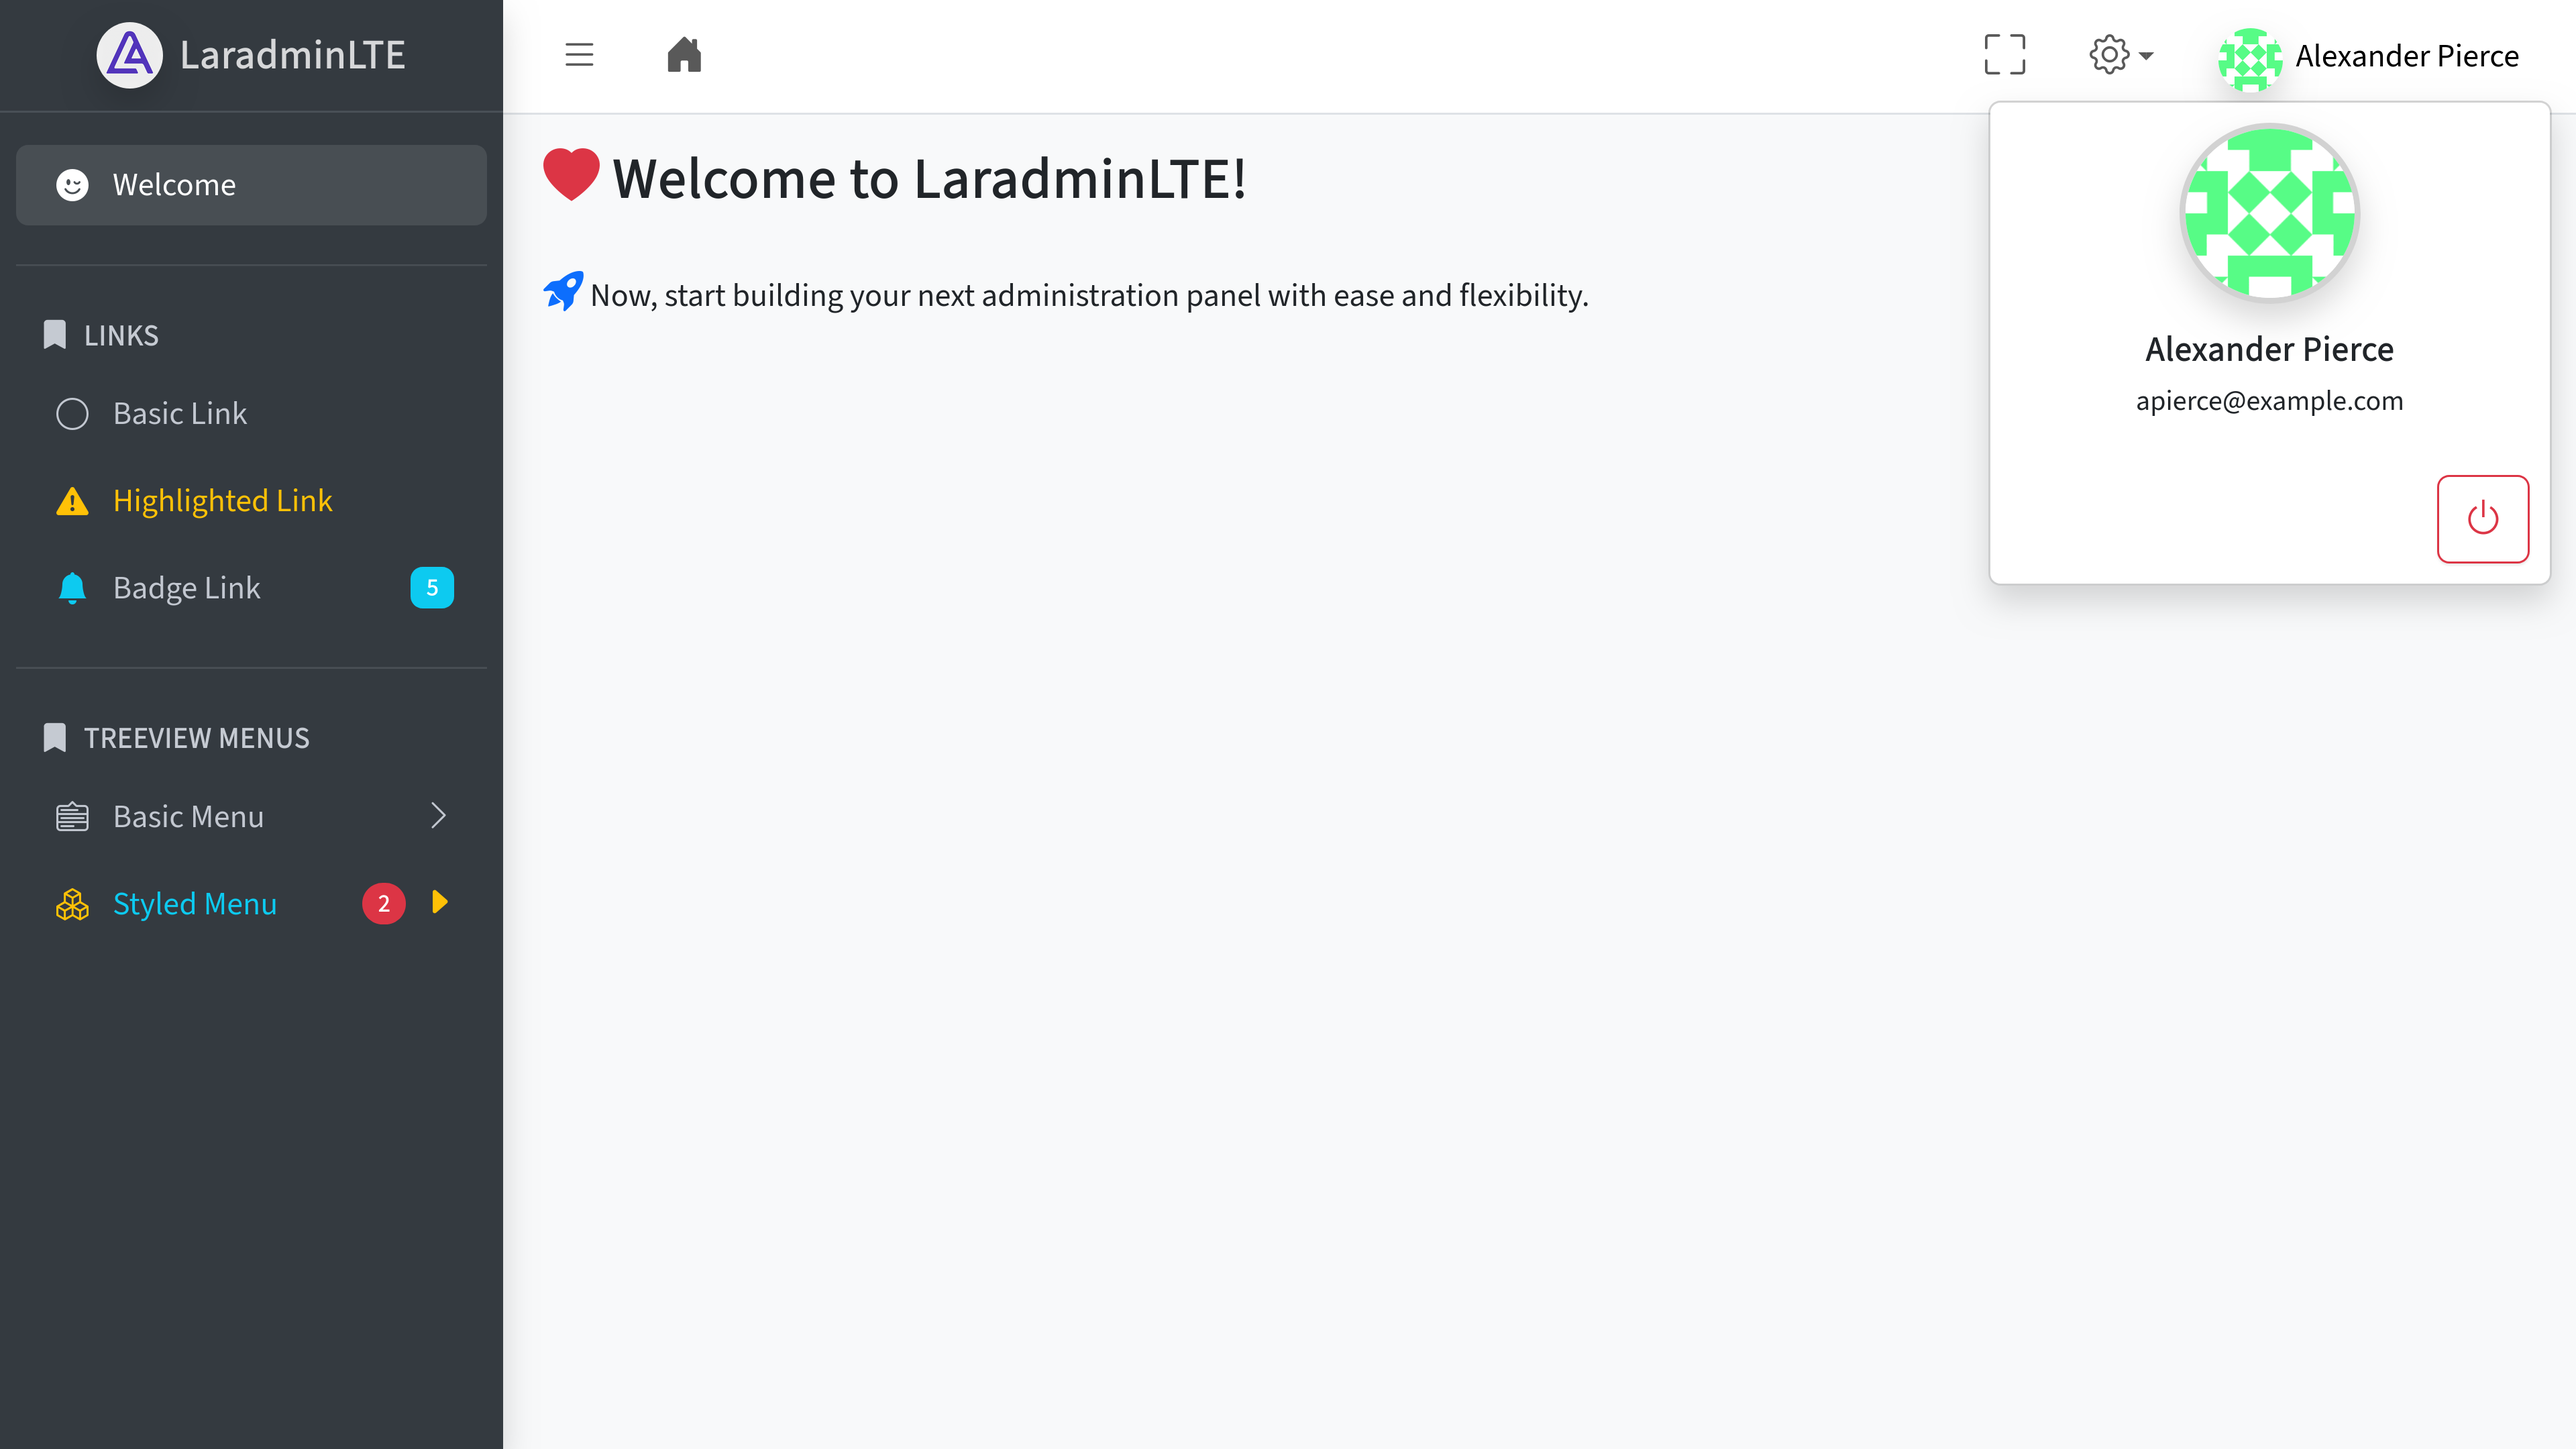
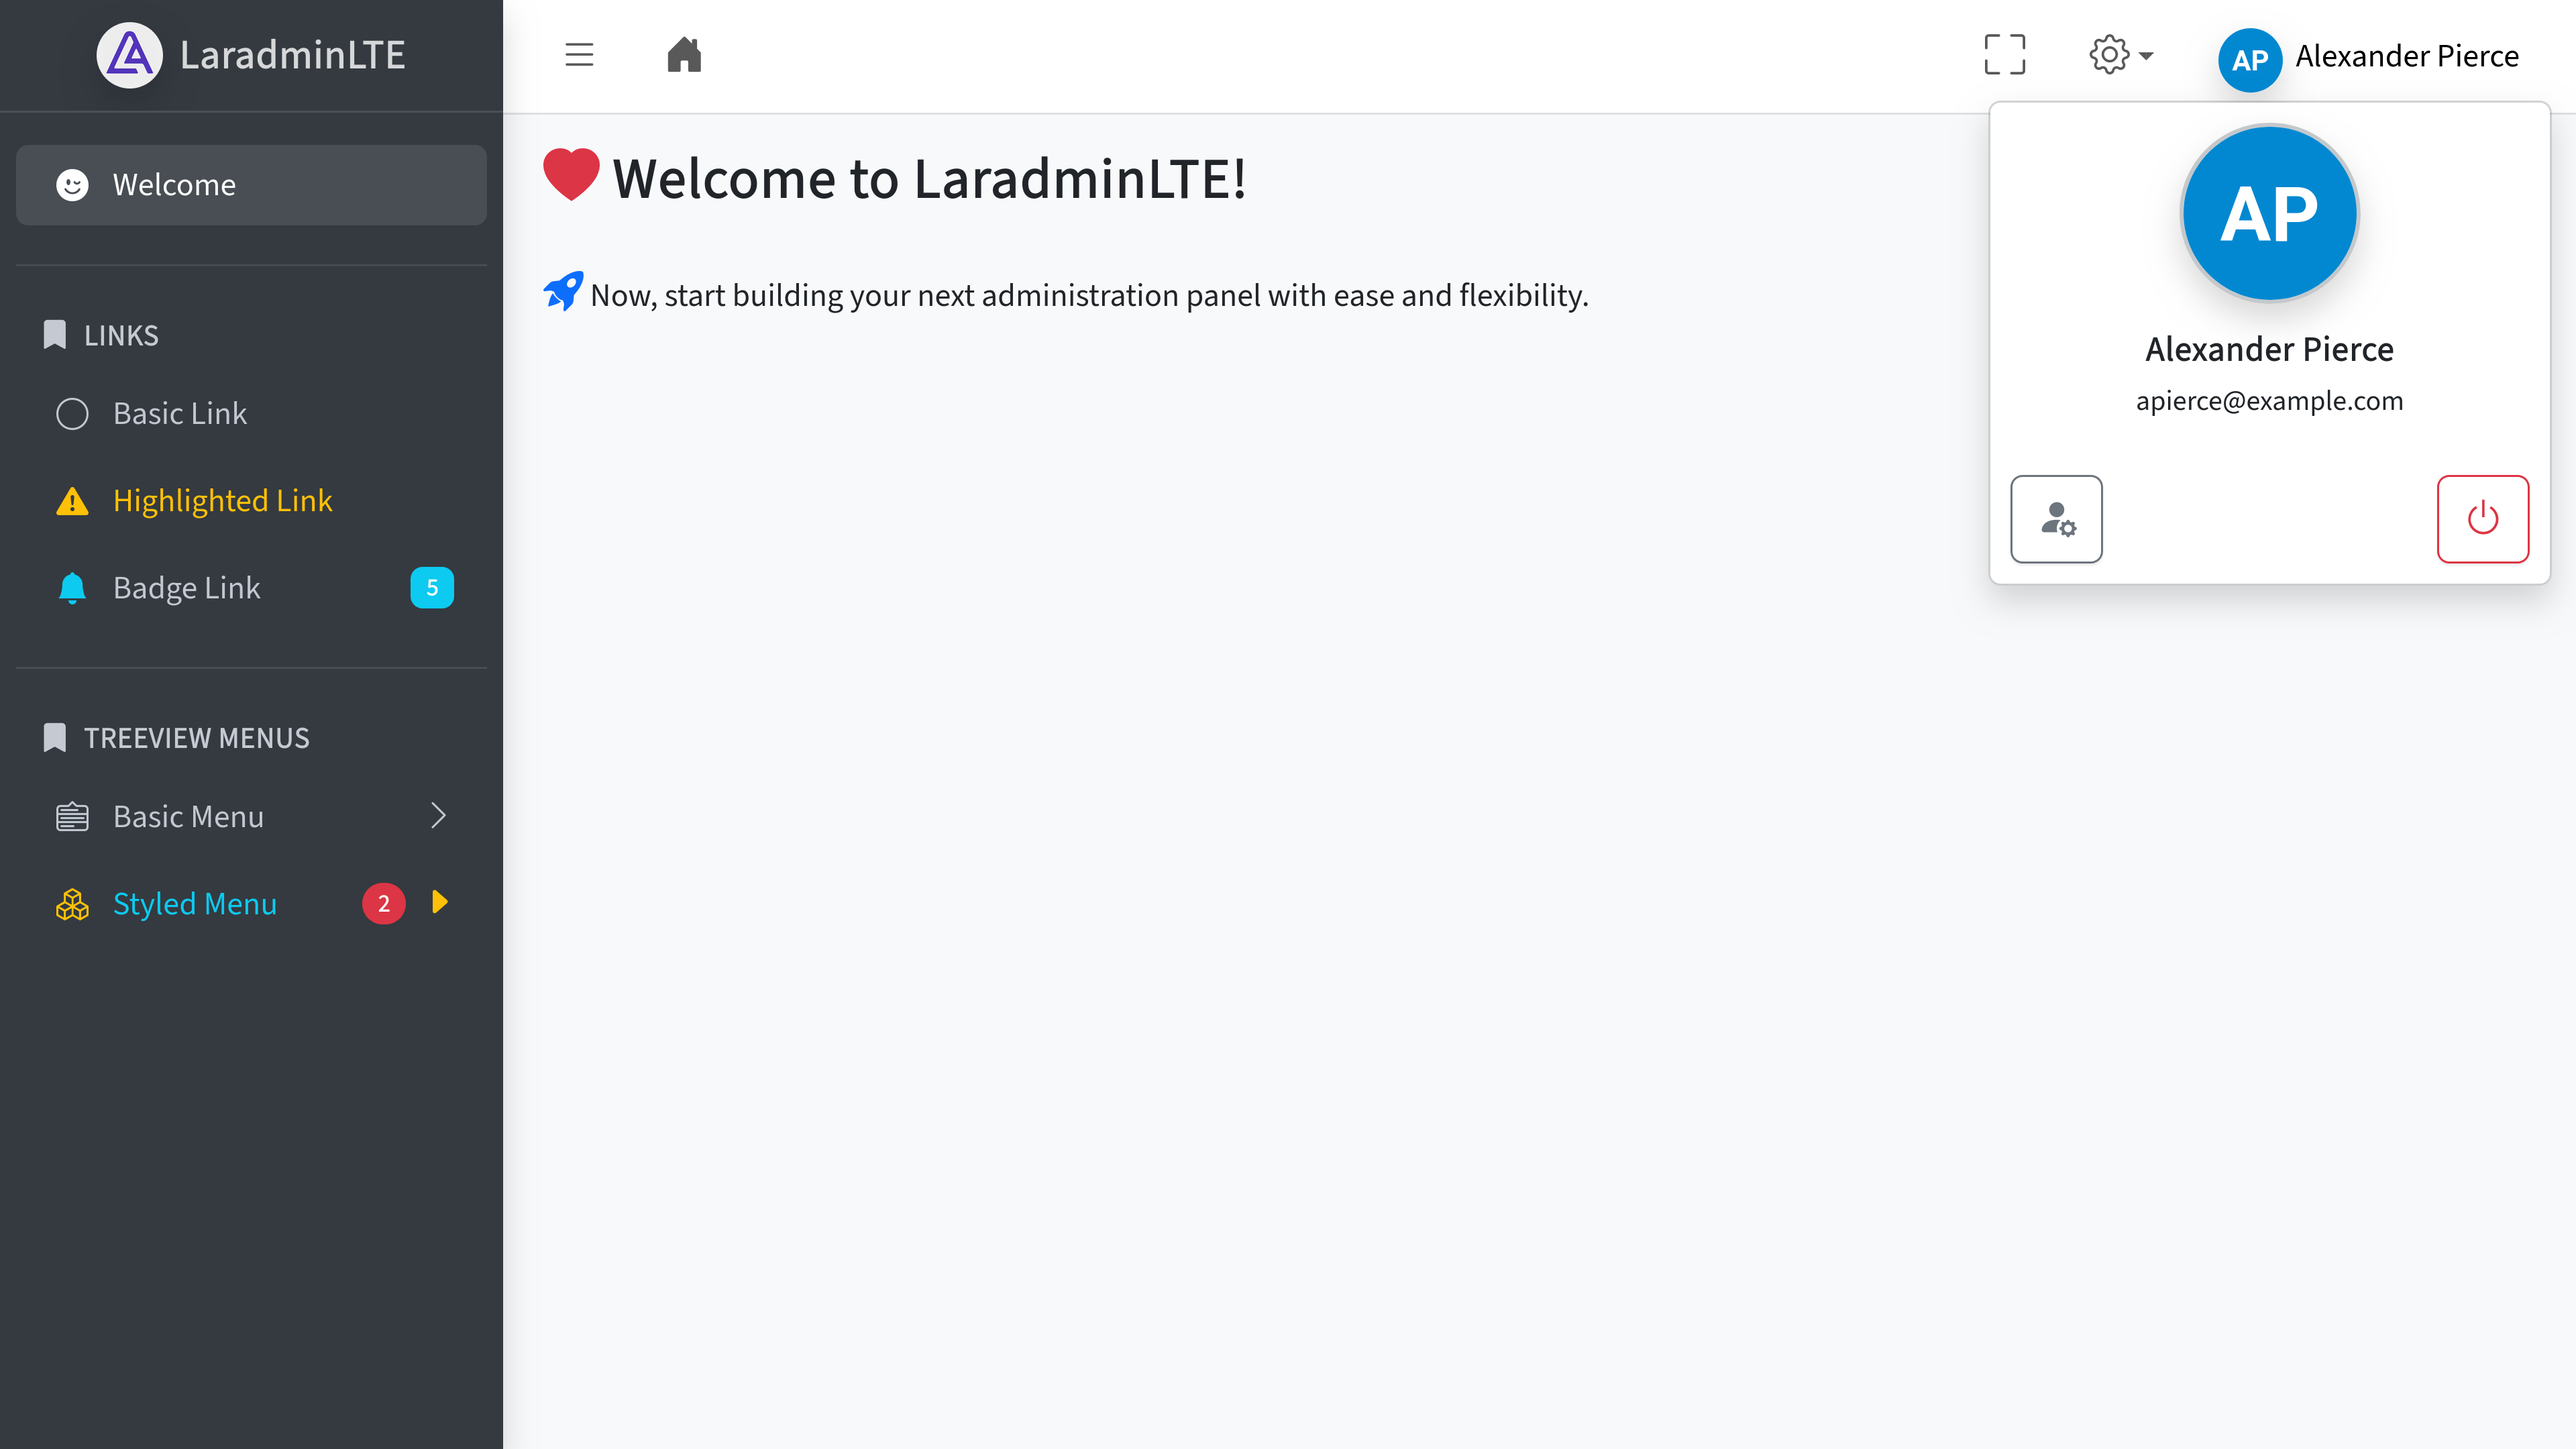
[docs]: Update docs to match new profile images feature

Changed region(s): [[0.8438, 0.0931, 0.9375, 0.2171], [0.8438, 0.0, 0.9062, 0.062], [0.7812, 0.3412, 0.8125, 0.3722]]

diff --git a/docs/sections/config/auth.md b/docs/sections/config/auth.md
@@ -35,41 +35,6 @@ Once you have done this, you can access the login page by navigating to `/login`
 
 The authentication scaffolding offer additional features that can be enabled or disabled as needed. These features include *registration*, *password reset* and *email verification*. Also, the appearance of the authentication views can be customized by modifying the configuration file. All of these settings are explained in the next sections.
 
-## How to Customize the User Image
-
-By default, *LaradminLTE* uses [Gravatar](https://www.gravatar.com/) to display the user images in the navbar user menu based on their email addresses. However, you can customize the user image by defining a custom attribute in your `User` model.
-
-If you want to use your own user images (stored locally, on S3, or generated dynamically), you can override the default behavior by implementing the `ladmin_image` [accessor](https://laravel.com/docs/eloquent-mutators#defining-an-accessor) on your `User` model. This accessor should return the `URL` of the user image to be displayed.
-
-For example (and reference), assuming you store images locally in the `public/images/users` folder and you use the user `id` to name the image files, then you can define the `ladmin_image` accessor as follows:
-
-```php
-<?php
-
-namespace App\Models;
-
-use Illuminate\Database\Eloquent\Casts\Attribute;
-use Illuminate\Foundation\Auth\User as Authenticatable;
-use Illuminate\Support\Facades\Storage;
-
-class User extends Authenticatable
-{
-    /**
-     * Get the user's image URL for LaradminLTE.
-     */
-    protected function ladminImage(): Attribute
-    {
-        return Attribute::make(
-            get: fn () => Storage::url("images/users/{$this->id}.jpg"),
-        );
-    }
-}
-```
-
-::: warning WARNING: Just an Example
-The previous example is provided solely to illustrate a potential use case. It is not production-ready code and may require additional logic, validation, error handling, and security considerations before use in a production environment. Please, just use it as a reference of what can be done.
-:::
-
 ## Main Settings
 
 The main settings for the authentication scaffolding are as follows:
@@ -188,6 +153,9 @@ The authentication scaffolding includes several features that can be enabled or 
     'registration' => true,
     'password_reset' => true,
     'email_verification' => false,
+    'profile_image' => true,
+    'update_profile_information' => true,
+    'update_password' => true,
 ]
 ```
 :::
@@ -250,6 +218,68 @@ Route::middleware(['auth', 'verified'])->group(function () {
 ```
 :::
 
+### *profile_image*:
+
+- Type: `boolean`
+- Example: `'profile_image' => true`
+
+This setting enables or disables the profile image management feature on the user profile page. When set to `true`, users will be able to upload and display a profile image. When set to `false`, the profile image functionality will be disabled. This feature requires a few steps to be fully functional:
+
+#### 1. Add `profile_image_path` Column to Users Table
+
+Use the provided package migration to add the `profile_image_path` column to your `users` table. You can publish the migration file by running the following command:
+
+```bash
+php artisan vendor:publish --provider="DFSmania\LaradminLte\LaradminLteServiceProvider" --tag="migrations"
+```
+
+Then, run the migrations to update your database schema:
+
+```bash
+php artisan migrate
+```
+
+#### 2. Use `DFSmania\LaradminLte\Models\Concerns\HasProfileImage` Trait
+
+Include the `HasProfileImage` trait in your `User` model to add the necessary methods and relationships for handling profile images. For example:
+
+```php
+<?php
+namespace App\Models;
+
+use DFSmania\LaradminLte\Models\Concerns\HasProfileImage;
+use Illuminate\Foundation\Auth\User as Authenticatable;
+
+class User extends Authenticatable
+{
+    use HasProfileImage;
+
+    // ...
+}
+```
+
+#### 3. Setup Your Laravel Filesystem
+
+This feature requires you to have the [Laravel Filesystem](https://laravel.com/docs/filesystem) properly configured in your application to handle file uploads. By default, the profile images are stored in the `public` disk, which is typically linked to the `storage/app/public` directory. Make sure to run `php artisan storage:link` to create a symbolic link from `public/storage` to `storage/app/public` if you haven't done so already.
+
+#### 4. Customize Profile Image Settings (Optional)
+
+You can customize the profile image settings in the `config/ladmin/auth.php` file under the `profile_images` section. This includes options such as the *storage disk*, *maximum file size*, *allowed file types*, and *default image mode* (i.e., the default image to use when a user has not uploaded a profile image). The default image uses external services like [UI Avatars](https://ui-avatars.com/) or [Gravatar](https://gravatar.com/) to generate placeholder images based on the user's name initials or the user's email. Details about these settings can be found in the [Profile Images Configuration](#profile-images) section.
+
+### *update_profile_information*:
+
+- Type: `boolean`
+- Example: `'update_profile_information' => true`
+
+This setting enables or disables the ability for users to update their profile information on the user profile page. When set to `true`, users will be able to edit and save changes to their profile details, such as name and email address. When set to `false`, the profile information update functionality will be disabled.
+
+### *update_password*:
+
+- Type: `boolean`
+- Example: `'update_password' => true`
+
+This setting enables or disables the ability for users to update their passwords on the user profile page. When set to `true`, users will be able to change their passwords. When set to `false`, the password update functionality will be disabled.
+
 ### Password Confirmation
 
 The authentication scaffolding also includes password confirmation functionality, which is used to verify a user's identity before allowing access to sensitive actions or areas of the application. This feature is enabled by default and does not require any additional configuration.
@@ -280,6 +310,65 @@ Route::middleware(['auth'])->group(function () {
     })->middleware('password.confirm');
 });
 ```
+
+## Profile Images
+
+The `profile_images` configuration section allows you to customize the settings related to user profile images. These settings will only take effect if the [profile_image](#profile-image) feature is enabled in the `features` section of the `config/ladmin/auth.php` file.
+
+::: details Quick Example {open}
+```php
+'profile_images' => [
+    'max_size' => 1024,
+    'allowed_mime_types' => [
+        'image/jpeg',
+        'image/png',
+        'image/gif',
+    ],
+    'storage_disk' => 'public',
+    'storage_path' => 'profile-images',
+    'default_mode' => 'initials',
+]
+```
+:::
+
+### *max_size*:
+
+- Type: `integer`
+- Example: `'max_size' => 2048`
+
+This setting defines the maximum allowed file size for profile image uploads, in kilobytes.
+
+### *allowed_mime_types*:
+
+- Type: `array<string>`
+- Example:`'allowed_mime_types' => ['image/jpeg', 'image/png', 'image/gif']`
+
+This setting specifies the allowed *MIME types* for profile image uploads. You can add or remove *MIME types* as needed to control the types of images that users can upload.
+
+### *storage_disk*:
+
+- Type: `string`
+- Example: `'storage_disk' => 'public'`
+
+This setting defines the storage disk where profile images will be stored. This should correspond to a disk defined in the `filesystems.php` configuration file of your Laravel application.
+
+### *storage_path*:
+
+- Type: `string`
+- Example: `'storage_path' => 'profile-images'`
+
+This setting specifies the directory path within the storage disk where profile images will be stored.
+
+### *default_mode*:
+
+- Type: `string ('identicon'|'robohash'|'initials')`
+- Example: `'default_mode' => 'initials'`
+
+This setting defines the default image mode to be used when a user has not uploaded a profile image. Supported modes are:
+
+- **identicon**: Uses `Gravatar` service with `identicon` mode based on user's email.
+- **robohash**: Uses `Gravatar` service with `robohash` mode based on user's email.
+- **initials**: Uses `ui-avatars.com` service to generate an image with the user's initials.
 
 ## Accent Themes
 

diff --git a/README.md b/README.md
@@ -40,6 +40,8 @@ This command will publish the following elements to your application:
 
 ### 3. Other Publishable Resources (Optional)
 
+#### Translations
+
 Additionally, you can also publish the translation files if you want to customize them or add new languages:
 
 ```bash
@@ -47,6 +49,20 @@ php artisan vendor:publish --provider="DFSmania\LaradminLte\LaradminLteServicePr
 ```
 
 Translation files will be published to the `resources/lang/vendor/ladmin` folder of your Laravel application.
+
+#### Migrations
+
+If you plan to use the built-in authentication scaffolding with the **profile images feature**, you should publish the package's migrations:
+
+```bash
+php artisan vendor:publish --provider="DFSmania\LaradminLte\LaradminLteServiceProvider" --tag="migrations"
+```
+
+Migrations will be published to the `database/migrations` folder of your Laravel application. These migrations will create the necessary columns on the `users` table to support user profile images. You can run migrations by executing:
+
+```bash
+php artisan migrate
+```
 
 ## Usage
 

diff --git a/docs/sections/overview/getting-started.md b/docs/sections/overview/getting-started.md
@@ -36,6 +36,8 @@ This command will publish the following elements to your application:
 
 ### 3. Other Publishable Resources (Optional)
 
+#### Translations
+
 Additionally, you can also publish the translation files if you want to customize them or add new languages:
 
 ```bash
@@ -43,6 +45,20 @@ php artisan vendor:publish --provider="DFSmania\LaradminLte\LaradminLteServicePr
 ```
 
 Translation files will be published to the `resources/lang/vendor/ladmin` folder of your Laravel application.
+
+#### Migrations
+
+If you plan to use the built-in authentication scaffolding with the **profile images feature**, you should publish the package's migrations:
+
+```bash
+php artisan vendor:publish --provider="DFSmania\LaradminLte\LaradminLteServiceProvider" --tag="migrations"
+```
+
+Migrations will be published to the `database/migrations` folder of your Laravel application. These migrations will create the necessary columns on the `users` table to support user profile images. You can run migrations by executing:
+
+```bash
+php artisan migrate
+```
 
 ## Usage
 

diff --git a/docs/sections/overview/what-is-laradminlte.md b/docs/sections/overview/what-is-laradminlte.md
@@ -19,7 +19,7 @@
 
 - **Advanced Configuration Options**: Provides deep customization for: panel layout, branding, navbar and sidebar behavior. All options are centralized in a single config file for simplicity and maintainability.
 
-- **Built-in Authentication Scaffolding**: Out-of-the-box authentication UI powered by **Laravel Fortify**. Includes: *login*, *registration* and *password reset views*.
+- **Built-in Authentication Scaffolding**: Out-of-the-box authentication UI powered by **Laravel Fortify**, that includes: *login*, *registration*, *password reset*, *email verification*, *password confirmation* and *profile management* features.
 
 ## Who is it for?
 
